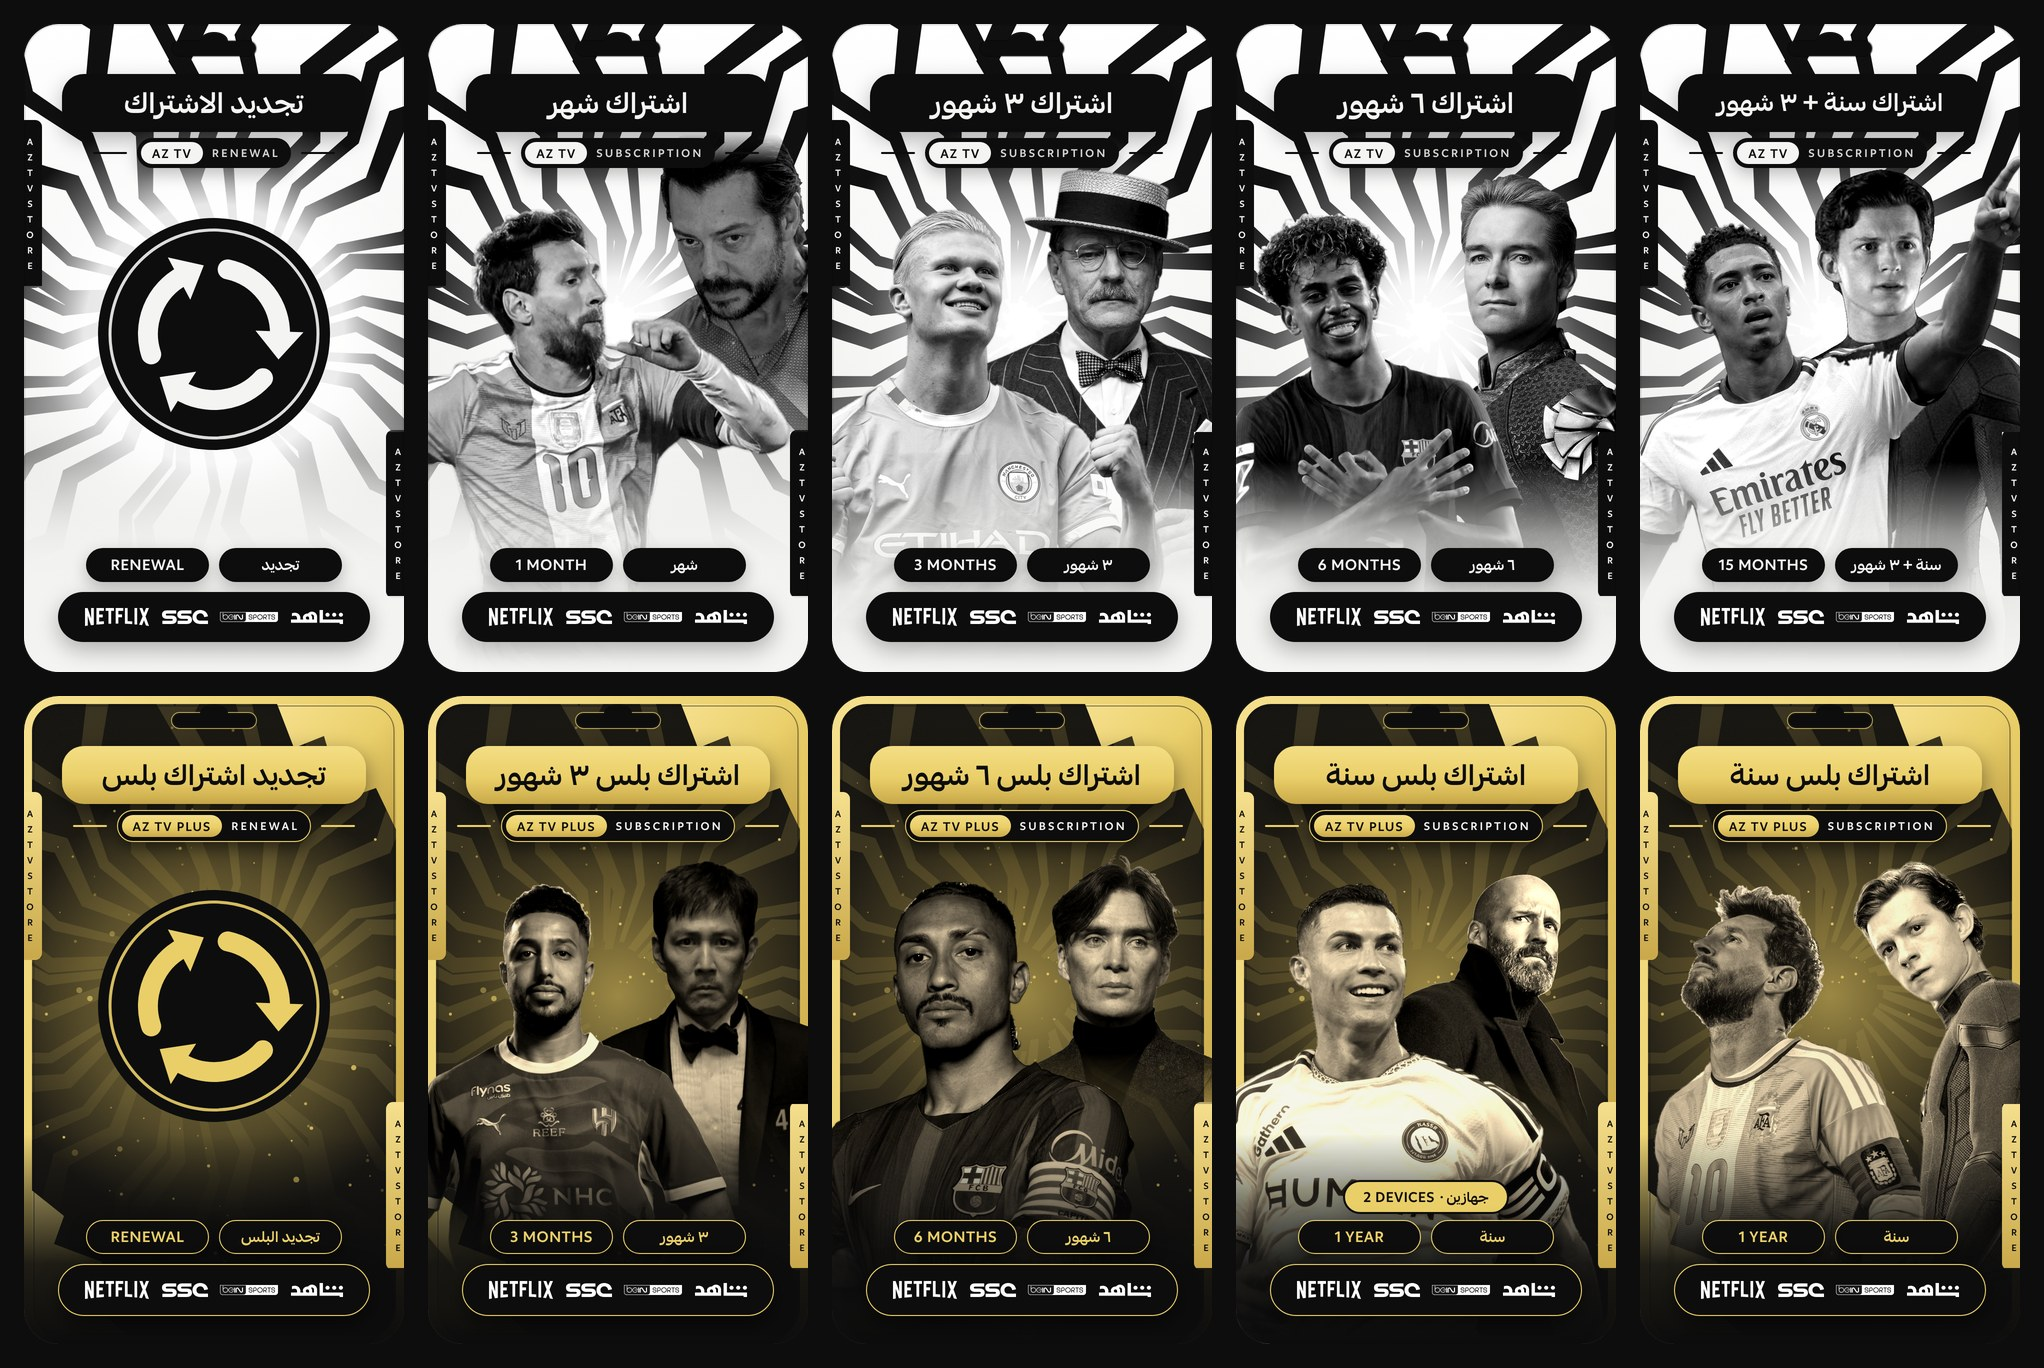
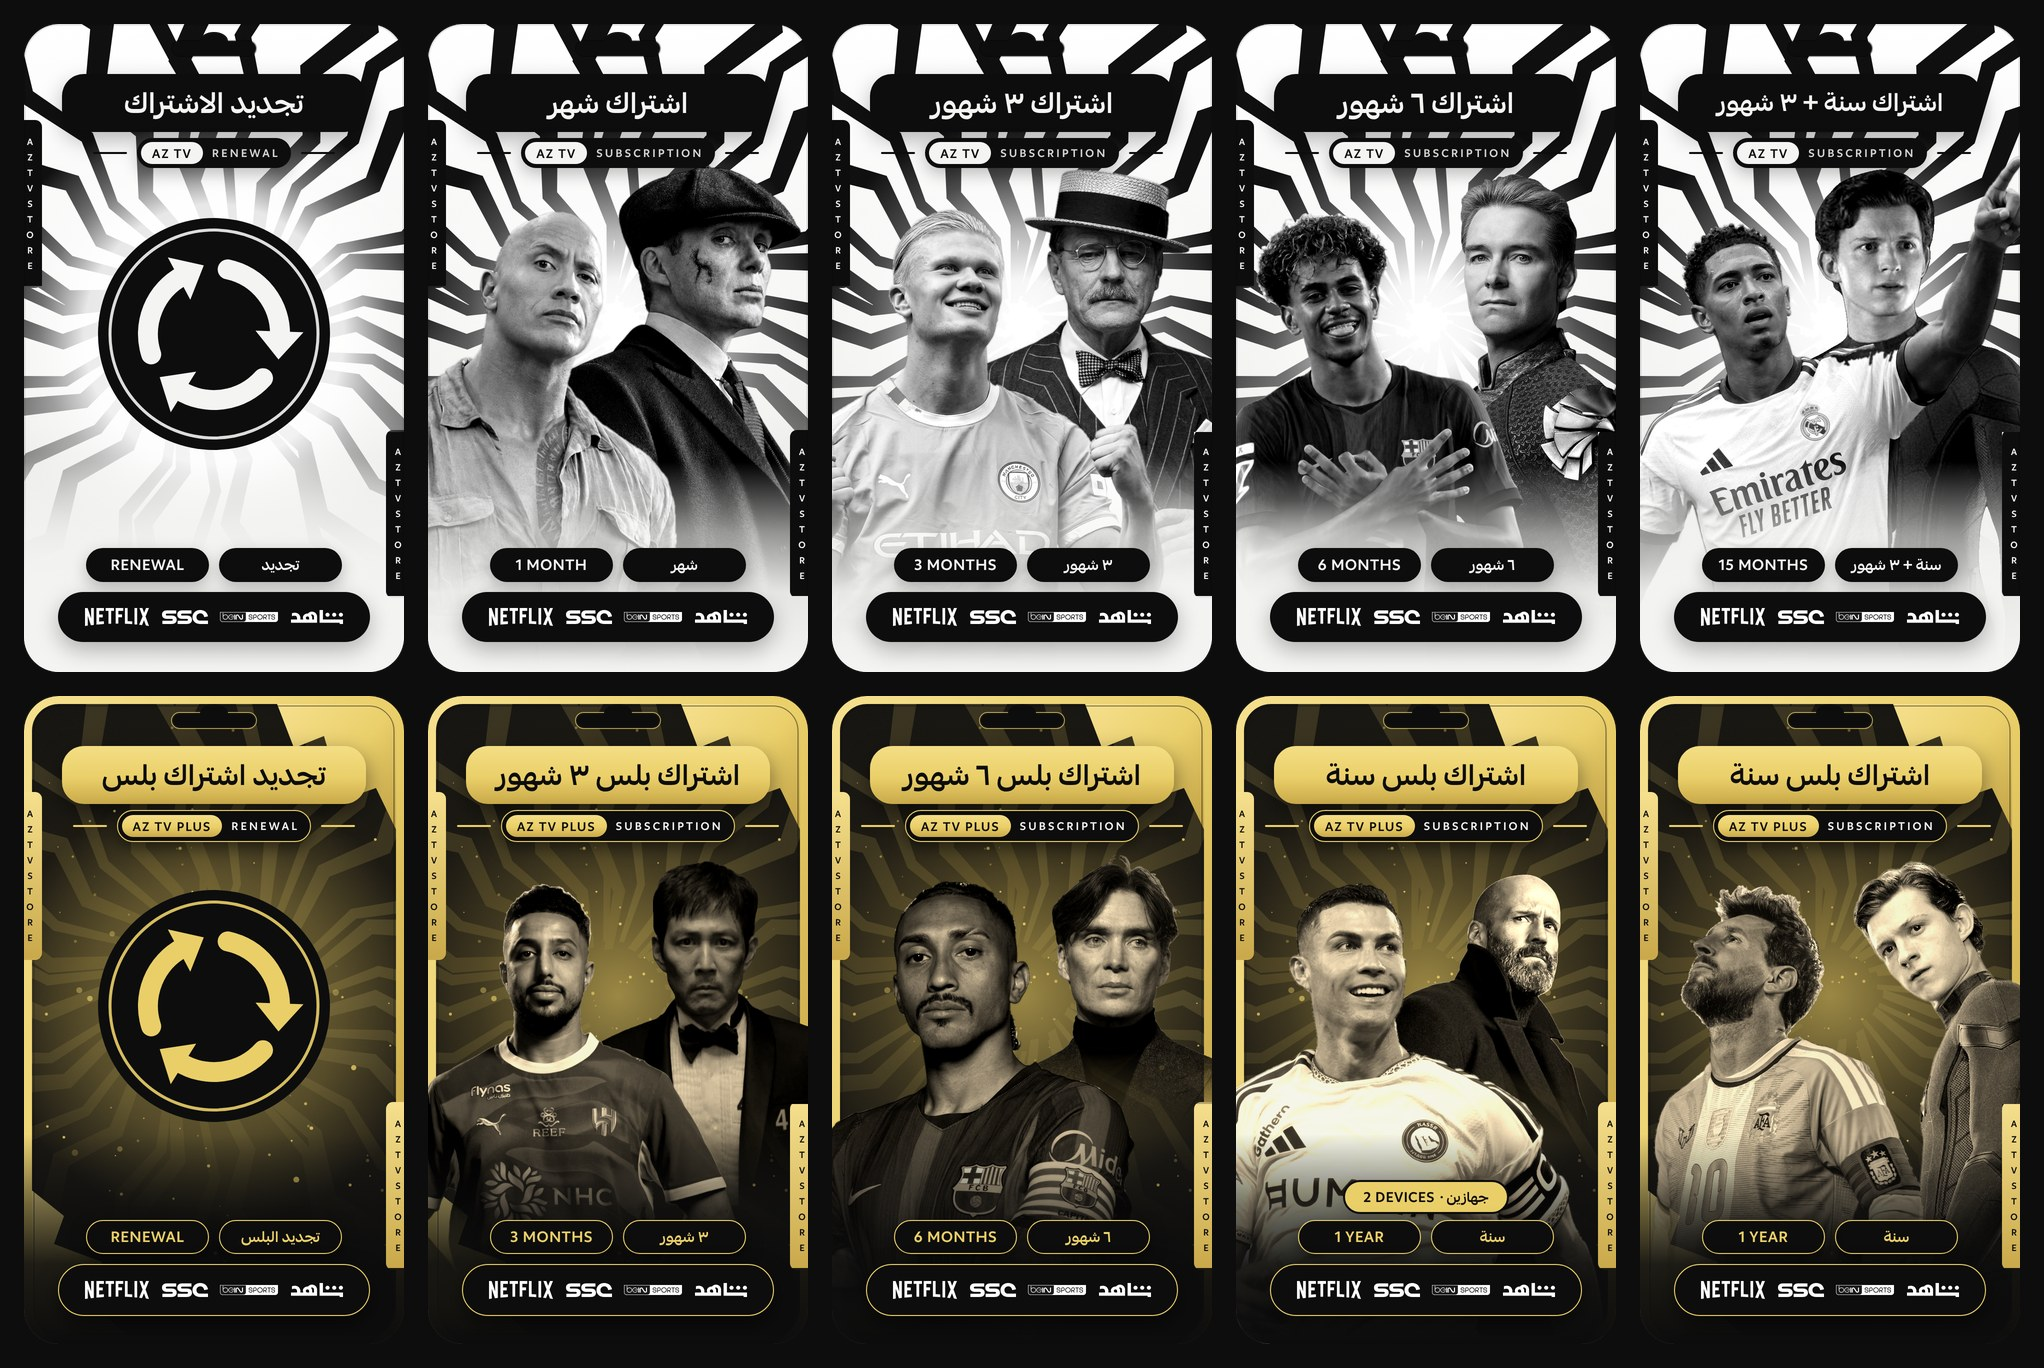
Card AZ TV 1 month: new photos 014 and 015
The client found the jumping player and the star on this card weak and
sent two replacements, cut out of their white background.

Claude-Session: https://claude.ai/code/session_01FygVLnFo91EcE1sreJGJg8

Changed region(s): [[0.1849, 0.0921, 0.4007, 0.4298]]

diff --git a/05-design/shared/subscription-cards/card.html b/05-design/shared/subscription-cards/card.html
@@ -139,8 +139,8 @@ const CARDS = {
   "aztv-1m": {
     bg: REG, title: "اشتراك شهر", dEn: "1 MONTH", dAr: "شهر",
     photos: [
-      { src: ST + "07-alvaro-morte-dos-tumbas.png", left: 191, top: 110, width: 260, fadeTop: true },
-      { src: PH + "007-argentina-kit-10-jumping.png", left: -245, top: 185, width: 787 }
+      { src: PH + "015-flat-cap-long-coat-scar.png", left: 79, top: 123, width: 337 },
+      { src: PH + "014-bald-khaki-shirt-gloves.png", left: -234, top: 153, width: 632 }
     ]
   },
   // 5. AZ TV Plus, 1 year

diff --git a/05-design/shared/subscription-cards/README.md b/05-design/shared/subscription-cards/README.md
@@ -60,13 +60,13 @@ Built from `card.html` in the accepted look of card 3, with the card photos 001-
 | 1 `aztv-15m` | 003 | Tom Holland (`05`) |
 | 2 `aztv-6m` | 010 | 013 |
 | 3 `aztv-3m` | 005 | 009 |
-| 4 `aztv-1m` | 007 | Álvaro Morte (`07`) |
+| 4 `aztv-1m` | 014 | 015 |
 | 5 `plus-12m` | 001 | 012 |
 | 6 `plus-12m-2dev` | 006 | 002 |
 | 7 `plus-6m` | 004 | Cillian Murphy (`03`) |
 | 8 `plus-3m` | 011 | Lee Jung-jae (`04`) |
 
-Numbers are the photos in `photos/` (cut-outs in `photos/transparent/`); stars are in `stars/latest-roles/vertical/transparent/`. Pairs follow `card-stars.json` where we have the photo; where we don't have that photo yet (Mbappé, Vinícius and Neymar among the players; Kit Harington, Bryan Cranston and others appear in the new photos instead), the closest photo we have stands in. Photos 001 and 007 are the same player, so he is on two cards (5 and 4): replace 007 on card 4 when a new player photo arrives. Photos 012 and 05 are the same actor (cards 5 and 1), so card 1 needs another star. 012 and 013 replaced 008 (card 5) and the dark star `06` (card 2) at the client's request. Photo 011 was cut out with `--holes 5000` to clear the white gaps between the arms and the body.
+Numbers are the photos in `photos/` (cut-outs in `photos/transparent/`); stars are in `stars/latest-roles/vertical/transparent/`. Pairs follow `card-stars.json` where we have the photo; where we don't have that photo yet (Mbappé, Vinícius and Neymar among the players; Kit Harington, Bryan Cranston and others appear in the new photos instead), the closest photo we have stands in. Card 4 has two actors (014 in front, 015 behind) instead of a player and a star: the client found 007 and `07` weak and sent these two. 015 and `03` are the same actor (cards 4 and 7). Photos 012 and 05 are the same actor (cards 5 and 1), so card 1 needs another star. 012 and 013 replaced 008 (card 5) and the dark star `06` (card 2) at the client's request. Photo 011 was cut out with `--holes 5000` to clear the white gaps between the arms and the body.
 
 ## How we work
 

diff --git a/PROJECT.md b/PROJECT.md
@@ -197,6 +197,7 @@ new store design/
 
 ## 10. Log
 
+- 2026-10-24: AZ TV 1 month card: client found its photos weak; now photos 014 (front) and 015 (behind), two actors, instead of 007 and the latest-roles star `07`.
 - 2026-10-24: Cards, client edits: AZ TV 6 months now has photo 013 behind the player (was the dark star photo), AZ TV Plus 1 year has photo 012 behind the player (was 008). The «AZ TV SUBSCRIPTION» line under the title on every card is now a clear pill: the package name in a chip («AZ TV» white, «AZ TV PLUS» gold) and «SUBSCRIPTION» or «RENEWAL» beside it.
 - 2026-10-24: All ten subscription cards built in the accepted look (`05-design/shared/subscription-cards/new/`, overview `new/all-cards.jpg`), using the card photos 001-011 and the latest-roles stars. Plus cards get a gold version of the look (gold title pill, warm portraits, dark floor); the two renewal cards show renewal arrows instead of faces; the two-device Plus card has a «جهازين» badge. Card 3 is unchanged. Waiting for review; who is on which card is in the folder README.
 - 2026-10-24: Subscription card look accepted: `05-design/shared/subscription-cards/new/aztv-3m.png` (اشتراك ٣ شهور). White card with the black burst, black title pill with an «AZ TV SUBSCRIPTION» line under it, two large black-and-white portraits (player in front, star behind), a soft light at the burst centre, a light floor under the duration and logo pills. Built from `card.html`, exported with `node render-cards.cjs <card>`; player photos cut out with `photos/cutout-white.py`. Card 6 months (`aztv-6m.png`) is a trial in the same look; a first Plus trial was rejected and removed. Portraits on both are stand-ins until photos are matched to the name list.

diff --git a/05-design/shared/subscription-cards/photos/README.md b/05-design/shared/subscription-cards/photos/README.md
@@ -29,8 +29,10 @@ The photos for the subscription cards (football players and series/film stars; s
 | 011 | `011-light-blue-kit-hands-behind-back.jpg` | 2000×2000 | Square studio portrait, royal-blue kit with white collar, hands behind back, looking at camera; white background, not a tight cut-out |
 | 012 | `012-red-blue-spider-suit.png` | 540×740 | Red and blue spider suit, head tilted, looking at camera; already transparent (small file, fine at card size) |
 | 013 | `013-blue-suit-eagle-shoulder-cape.webp` | 1350×1687 | Blue patterned suit, silver eagle on the shoulder, red cape, slicked hair; already transparent |
+| 014 | `014-bald-khaki-shirt-gloves.webp` | 1126×1397 | Bald, khaki short-sleeved shirt open at the neck, fingerless black gloves, cargo trousers; white background |
+| 015 | `015-flat-cap-long-coat-scar.webp` | 873×1802 | Flat cap, scar on the cheek, long dark wool coat, red tie, looking over the shoulder; white background |
 
-Batches 1 (001-005), 2 (006-009), 3 (010-011) and 4 (012-013, already transparent: copied to `transparent/` as PNG without cutting). More images to come.
+Batches 1 (001-005), 2 (006-009), 3 (010-011), 4 (012-013, already transparent: copied to `transparent/` as PNG without cutting) and 5 (014-015). More images to come.
 
 ## To check before the cards are built
 
